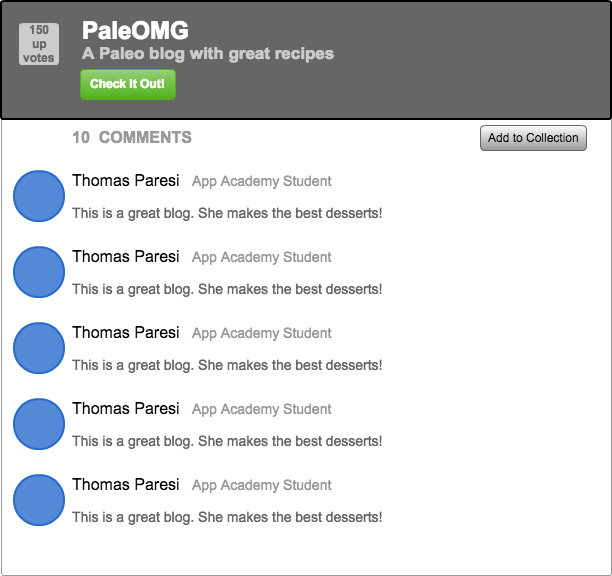
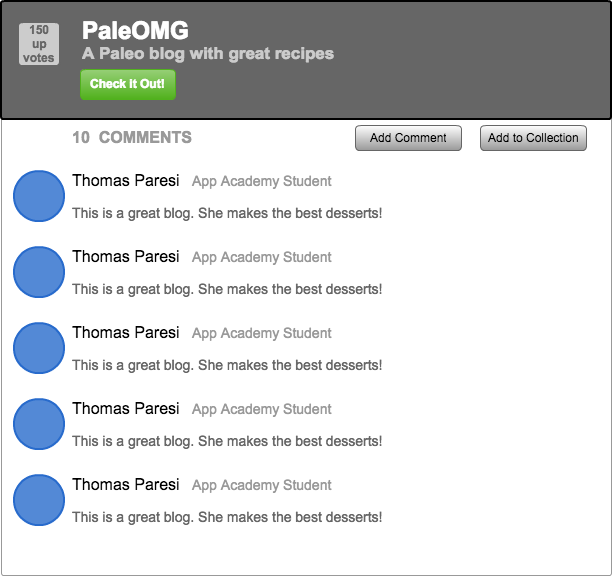
Create Implementation Timeline.

Changed region(s): [[0.5588, 0.2188, 0.7761, 0.2812]]

diff --git a/README.md b/README.md
@@ -30,55 +30,47 @@ Health Hunt is a clone of Product Hunt built on Rails and Backbone. Users can:
 
 ## Implementation Timeline
 
-### Phase 1: User Authentication, Blog Creation (~1 day)
+### Phase 1: User Authentication, Collection, Product, Comment Creation (~1.5 days)
 I will implement user authentication in Rails based on the practices
 learned at App Academy. By the end of this phase, users will be able to
-log in and create products using a simple text form in a Rails View.
+log in and create products, comments, and collections using a simple
+text form in a Rails View.
 
 [Details][phase-one]
 
-### Phase 2: Viewing Blogs and Posts (~2 days)
-I will add API routes to serve blog and post data as JSON, then add Backbone
-models and collections that fetch data from those routes. By the end of this
-phase, users will be able to create blogs and view both blogs and posts, all
-inside a single Backbone app.
+### Phase 2: Viewing Collections, Products, and Comments (~3 days)
+I will add API routes to serve product data as JSON, then add Backbone
+models and collections that fetch data from those routes. By the end of
+this phase, users will be able to create and view collections, comments,
+and products, all inside a single Backbone app.
 
 [Details][phase-two]
 
-### Phase 3: Editing and Displaying Posts (~2 days)
-I plan to use third-party libraries to add functionality to the `PostForm` and
-`PostShow` views in this phase. First I'll need to add a Markdown editor to the
-`PostForm`, and make sure that the Markdown is properly escaped and formatted in
-the `PostShow` view. I also plan to integrate Filepicker for file upload so
-users can add images to blog posts.
+### Phase 3: Editing and Displaying Collections, Products, and Comments (~2 days)
+I plan to use third-party libraries to add functionality to the
+'CollectionForm' and `CommentForm` views in this phase.
+First I'll need to add a Markdown editor to the `CommentForm`. Then, I
+plan to integrate Filepicker for file uploads so users can add images to
+collections.
 
 [Details][phase-three]
 
-### Phase 4: User Feeds (~1-2 days)
-I'll start by adding a `feed` route that uses the `current_user`'s
-`subscribed_blogs` association to serve a list of blog posts ordered
-chronologically. On the Backbone side, I'll make a `FeedShow` view whose `posts`
-collection fetches from the new route.  Ultimately, this will be the page users
-see after logging in.
+### Phase 4: User Profile (~2 days)
+I want to add a profile page for the user where they can see their upvoted
+products, created products, collections, followers, and followees.
 
 [Details][phase-four]
 
-### Phase 5: Searching for Blogs and Posts (~2 days)
-I'll need to add `search` routes to both the Blogs and Posts controllers. On the
-Backbone side, there will be a `SearchResults` composite view has `BlogsIndex`
-and `PostsIndex` subviews. These views will use plain old `blogs` and `posts`
-collections, but they will fetch from the new `search` routes.
+### Phase 5: Searching for Products (~1 day)
+I'll need to add a `search` route to products. On the
+Backbone side, there will be a `SearchIndex.`
 
 [Details][phase-five]
 
 ### Bonus Features (TBD)
-- [ ] "Like" button and counter for posts
-- [ ] Custom blog urls
 - [ ] Pagination/infinite scroll
-- [ ] Activity history (e.g. likes, reblogs, taggings)
-- [ ] Post types (image posts, quote posts, etc)
-- [ ] Reblogging
 - [ ] Multiple sessions/session management
+- [ ] Log In API (Twitter/Facebook/Google)
 - [ ] User avatars
 - [ ] Typeahead search bar
 

diff --git a/docs/phases/phase2.md b/docs/phases/phase2.md
@@ -1,29 +1,33 @@
-# Phase 2: Viewing Blogs and Posts
+# Phase 2: Viewing Collections, Products, and Comments
 
 ## Rails
 ### Models
 
 ### Controllers
-Api::BlogsController (create, destroy, index, show)
-Api::PostsController (create, destroy, show, update)
+* Api::CollectionsController (create, destroy, index, show, update)
+* Api::ProductsController (create, destroy, index, show, update)
+* Api::CommentsController (create, destroy, index, show, update)
 
 ### Views
-* blogs/show.json.jbuilder
+* collections/show.json.jbuilder
+* products/show.json.jbuilder
 
 ## Backbone
 ### Models
-* Blog (parses nested `posts` association)
-* Post
+* Collection
+* Product (parses nested `comments` association)
 
 ### Collections
-* Blogs
-* Posts
+* Collections
+* Products
 
 ### Views
-* BlogForm
-* BlogShow (composite view, contains PostsIndex subview)
-* PostsIndex (composite view, contains PostsIndexItem subviews)
-* PostsIndexItem
-* PostShow
+* CollectionForm
+* CollectionsIndex
+* ProductForm
+* ProductsIndex
+* ProductShow (composite view, contains CommentsIndex subview)
+* CommentsIndex (composite view, contains CommentsIndexItem subview)
+* CommentsIndexItem
 
 ## Gems/Libraries

diff --git a/docs/schema.md b/docs/schema.md
@@ -9,6 +9,14 @@ title       | string    | not null
 url         | string    | not null
 description | string    | not null
 
+## comments
+column name | data type | details
+------------|-----------|-----------------------
+id          | integer   | not null, primary key
+owner_id    | integer   | not null, foreign key (references users)
+product_id  | integer   | not null, foreign key (references products)
+body        | string    | not null
+
 ## collectionings
 column name   | data type | details
 --------------|-----------|-----------------------
@@ -22,6 +30,7 @@ column name | data type | details
 id          | integer   | not null, primary key
 owner_id    | integer   | not null, foreign key (references users)
 title       | string    | not null
+image_url   | string    |
 <!-- description | string    | not null -->
 
 ## users

diff --git a/docs/phases/phase1.md b/docs/phases/phase1.md
@@ -1,22 +1,27 @@
-# Phase 1: User Authentication, Basic Blogs and Posts
+# Phase 1: User Authentication, Collection, Product, Comment Creation
 
 ## Rails
 ### Models
 * User
-* Blog
-* Post
+* Collection
+* Product
+* Comment
 
 ### Controllers
 * UsersController (create, new)
 * SessionsController (create, new, destroy)
-* BlogsController (create, new, show)
-* PostsController (create, new, show)
+* CollectionsController (create, new, show)
+* ProductsController (create, new, show)
+* CommentsController (create, new)
 
 ### Views
 * users/new.html.erb
 * session/new.html.erb
-* blogs/new.html.erb
-* blogs/show.html.erb
+* collections/index.html.erb
+* collections/show.html.erb
+* products/index.html.erb
+* products/show.html.erb
+* comments/index.html.erb
 
 ## Backbone
 ### Models

diff --git a/docs/phases/phase5.md b/docs/phases/phase5.md
@@ -1,11 +1,10 @@
-# Phase 5: Searching for Blogs and Posts
+# Phase 5: Searching for Products
 
 ## Rails
 ### Models
 
 ### Controllers
-Api::BlogsController (search)
-Api::PostsController (search)
+Api::ProductsController (search)
 
 ### Views
 
@@ -15,8 +14,6 @@ Api::PostsController (search)
 ### Collections
 
 ### Views
-* BlogSearchItem
-* SearchShow (composite view, contains BlogsIndex and PostsIndex subviews)
+* SearchIndex
 
 ## Gems/Libraries
-

diff --git a/docs/views.md b/docs/views.md
@@ -21,6 +21,9 @@
 ## Collection Form
 ![collection-form]
 
+## Comment Form
+![comment-form]
+
 ## Search Results
 ![search-results]
 
@@ -34,5 +37,6 @@
 [collection-show]: ./wireframes/collection_show.png
 [product-form]: ./wireframes/product_form.png
 [collection-form]: ./wireframes/collection_form.png
+[comment-form]: ./wireframes/comment_form.png
 [search-results]: ./wireframes/search_results.png
 [profile-show]: ./wireframes/profile_show.png

diff --git a/docs/phases/phase4.md b/docs/phases/phase4.md
@@ -1,13 +1,11 @@
-# Phase 4: User Feeds
+# Phase 4: User Profile
 
 ## Rails
 ### Models
 
 ### Controllers
-Api::PostsController (feed)
 
 ### Views
-posts/feed.json.jbuilder
 
 ## Backbone
 ### Models
@@ -15,6 +13,7 @@ posts/feed.json.jbuilder
 ### Collections
 
 ### Views
-* FeedShow (composite view, contains PostsIndex subview)
+* Follower Show
+* Followee Show
 
 ## Gems/Libraries

diff --git a/docs/phases/phase3.md b/docs/phases/phase3.md
@@ -1,4 +1,4 @@
-# Phase 3: Editing and Displaying Posts
+# Phase 3: Editing and Displaying Collections, Products, and Comments
 
 ## Rails
 ### Models
@@ -13,7 +13,9 @@
 ### Collections
 
 ### Views
-* PostForm
+* CollectionForm
+* ProductForm
+* CommentForm
 
 ## Gems/Libraries
 * Filepicker
